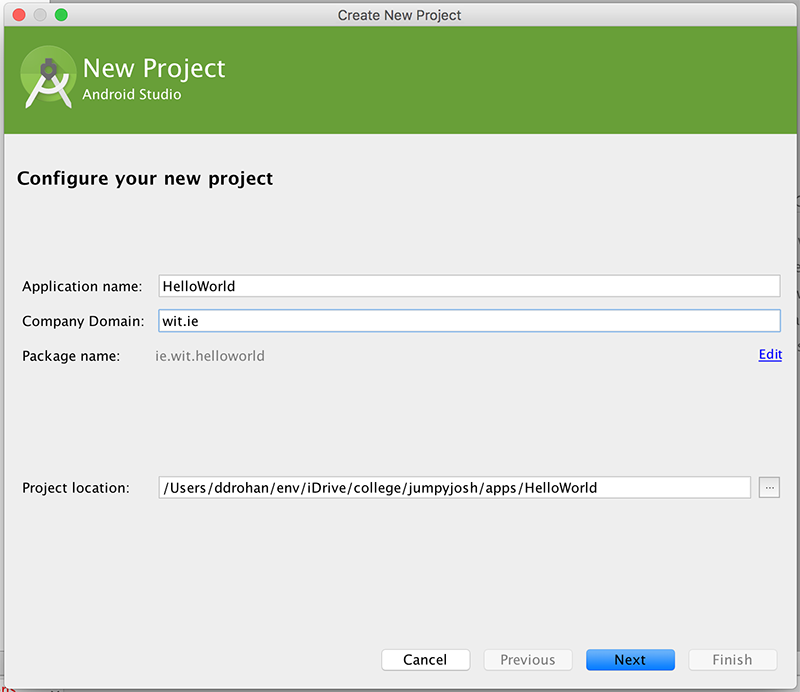
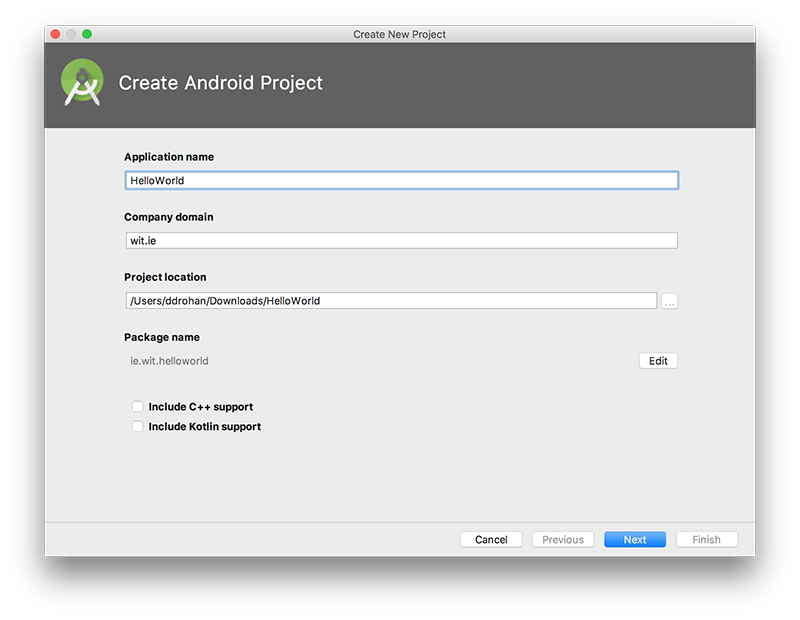
MB Lab01 Updates with Android Studio 3.0

diff --git a/topic01-overview-and-tools/book-a-lab-01/index.html b/topic01-overview-and-tools/book-a-lab-01/index.html
@@ -242,29 +242,32 @@ body
 <p><img src="img/lab01.png" alt="Figure 1: Completed App running in Emulator"></p>
 <p>If you&#39;ve deleted your HelloWorld Project, launch Android Studio (if it&#39;s not already open) and create a new Android Project called <b>HelloWorld</b> similar to what you did in Step 02.</p>
 <p>If you haven&#39;t deleted the project, you can just continue on.</p>
-<p>Name your package &#39;ie.wit&#39; (like you did before). Choose an Empty Activity again and rename as before. It&#39;s recommended you select <b>Android 5.0</b> as the launch target platform (but any target will suffice for this particular lab). It&#39;s also probably a good idea to run the App at this stage, so you can set up your Virtual Device (if you haven&#39;t done so already).</p>
+<p>Name your package &#39;ie.wit&#39; (like you did before). Choose a <b>Basic</b> Activity and rename as before. It&#39;s recommended you select <b>Android 6.0</b> as the launch target platform (but any target will suffice for this particular lab). It&#39;s also probably a good idea to run the App at this stage, so you can set up your Virtual Device (if you haven&#39;t done so already).</p>
 <p>Edit your &quot;strings.xml&quot; file (in your res folder) and add the following &quot;resources&quot; - be careful if you have created an app which contains a &#39;menu&#39; folder, this also includes associated resources, so don&#39;t overwrite those resources, just add our ones at the end.</p>
 <pre><code>    &lt;string name=&quot;window_text&quot;&gt;Press the button below to receive a friendly greeting from Android.&lt;/string&gt;
     &lt;string name=&quot;button_label&quot;&gt;Show Greeting&lt;/string&gt;
     &lt;string name=&quot;greeting_text&quot;&gt;Hello from Android!&lt;/string&gt;</code></pre>
-<p>Your completed strings.xml (without menus) should look like this</p>
+<p>Your completed strings.xml (with menu resurces) should look like this</p>
 <pre><code>&lt;resources&gt;
     &lt;string name=&quot;app_name&quot;&gt;HelloWorld&lt;/string&gt;
+    &lt;string name=&quot;action_settings&quot;&gt;Settings&lt;/string&gt;
+
     &lt;string name=&quot;window_text&quot;&gt;Press the button below to receive a friendly greeting from Android.&lt;/string&gt;
     &lt;string name=&quot;button_label&quot;&gt;Show Greeting&lt;/string&gt;
-    &lt;string name=&quot;greeting_text&quot;&gt;Hello from Android!&lt;/string&gt;
-&lt;/resources&gt;</code></pre>
+    &lt;string name=&quot;greeting_text&quot;&gt;Hello from Android!&lt;/string&gt;</code></pre>
 <p>If you choose &quot;open editor&quot; you can see the graphical representation of the String resources you have set up (and edit them here if you need to).</p>
 <p><img src="img/lab02.png" alt="Figure 1: String resources in Translations Editor"></p>
-<p>Now, edit your <b>&quot;activity_hello_world.xml&quot;</b> in your <u><i><strong>layout</strong></i></u> folder and replace your <b>TextView</b> with the following - make sure your in &#39;Text&#39; view and not &#39;Design&#39; view window (so you can see the xml).</p>
+<p>Now, edit your &quot;content_hello_world.xml&quot; <b><u>NOT</u></b> your &quot;activity_hello_world.xml&quot; in your <u><i><strong>layout</strong></i></u> folder and replace your <b>TextView</b> with the following - make sure your in &#39;Text&#39; view and not &#39;Design&#39; view window (so you can see the xml).</p>
 <pre><code>&lt;TextView
         android:id=&quot;@+id/textView1&quot;
-        android:gravity=&quot;center&quot;
         android:layout_width=&quot;wrap_content&quot;
         android:layout_height=&quot;wrap_content&quot;
-        android:layout_marginTop=&quot;20dp&quot;
+        android:layout_marginTop=&quot;80dp&quot;
+        android:gravity=&quot;center&quot;
         android:text=&quot;@string/window_text&quot;
-        android:textAppearance=&quot;?android:attr/textAppearanceMedium&quot; /&gt;
+        android:textAppearance=&quot;?android:attr/textAppearanceMedium&quot;
+        app:layout_constraintStart_toStartOf=&quot;parent&quot;
+        app:layout_constraintTop_toTopOf=&quot;parent&quot; /&gt;
 
     &lt;Button
         android:id=&quot;@+id/greetingButton&quot;
@@ -272,25 +275,35 @@ body
         android:layout_height=&quot;wrap_content&quot;
         android:layout_alignParentBottom=&quot;true&quot;
         android:layout_centerHorizontal=&quot;true&quot;
-        android:layout_marginBottom=&quot;59dp&quot;
+        android:layout_marginBottom=&quot;170dp&quot;
         android:onClick=&quot;showGreeting&quot;
-        android:text=&quot;@string/button_label&quot; /&gt;</code></pre>
+        android:text=&quot;@string/button_label&quot;
+        app:layout_constraintBottom_toBottomOf=&quot;parent&quot;
+        app:layout_constraintEnd_toEndOf=&quot;parent&quot;
+        app:layout_constraintStart_toStartOf=&quot;parent&quot; /&gt;</code></pre>
 <p>This will give you the following layout (once you select &#39;Design View&#39; again):</p>
 <p><img src="img/lab03.png" alt="Figure 3: Updated Activity Layout with TextView and Button widgets"></p>
+<p>Note how the widgets are &#39;anchored&#39; to the layout border - this ensures that our button and textview display correctly on the layout at runtime.</p>
+<p><img src="img/anchored.png" alt="Figure 4: Anchored TextView and Button widgets"></p>
 <p>Once again, it&#39;s worth running the app at this point to confirm everything is displayed the way we want it. If you click the button, your app will probably crash - we don&#39;t have our <b>showGreeting()</b> method implemented yet.</p>
 <p>So, the last thing we need to do is add in our event handling code so that a short message is displayed when the user presses the &#39;Show Greeting&#39; button.</p>
-<p>Firstly, open up the <strong>HelloWorldActivity.java</strong> source file and add the following method</p>
+<p>Firstly, open up the <strong>HelloWorldActivity.java</strong> source file and add the following method <b>BEFORE</b> the last closing brace</p>
 <pre><code>public void showGreeting(View v) {
         String greetingText = getString(R.string.greeting_text);
         Toast.makeText(this, greetingText, Toast.LENGTH_LONG).show();
     }</code></pre>
 <p>You&#39;ll get a few compiler errors due to missing imports, so try and fix those.</p>
-<p>Note that we have no need for some kind of Listener interface (ala swing development) - our event handling is taken care of via the <strong><em>onClick</em></strong> attribute in our xml layout, here&#39;s what your completed <strong>HelloWorldActivity</strong> class should look like.</p>
+<p>Note that we have no need for some kind of Listener interface (ala swing development) - our event handling is taken care of via the <strong><em>onClick</em></strong> attribute in our xml layout, here&#39;s what your completed <strong>HelloWorldActivity</strong> class should look like, including Floating Action Button and Menu support.</p>
 <pre><code>package ie.wit.helloworld;
 
 import android.os.Bundle;
+import android.support.design.widget.FloatingActionButton;
+import android.support.design.widget.Snackbar;
 import android.support.v7.app.AppCompatActivity;
+import android.support.v7.widget.Toolbar;
 import android.view.View;
+import android.view.Menu;
+import android.view.MenuItem;
 import android.widget.Toast;
 
 public class HelloWorldActivity extends AppCompatActivity {
@@ -299,15 +312,49 @@ public class HelloWorldActivity extends AppCompatActivity {
     protected void onCreate(Bundle savedInstanceState) {
         super.onCreate(savedInstanceState);
         setContentView(R.layout.activity_hello_world);
+        Toolbar toolbar = (Toolbar) findViewById(R.id.toolbar);
+        setSupportActionBar(toolbar);
+
+        FloatingActionButton fab = (FloatingActionButton) findViewById(R.id.fab);
+        fab.setOnClickListener(new View.OnClickListener() {
+            @Override
+            public void onClick(View view) {
+                Snackbar.make(view, &quot;Replace with your own action&quot;, Snackbar.LENGTH_LONG)
+                        .setAction(&quot;Action&quot;, null).show();
+            }
+        });
+    }
+
+    @Override
+    public boolean onCreateOptionsMenu(Menu menu) {
+        // Inflate the menu; this adds items to the action bar if it is present.
+        getMenuInflater().inflate(R.menu.menu_hello_world, menu);
+        return true;
+    }
+
+    @Override
+    public boolean onOptionsItemSelected(MenuItem item) {
+        // Handle action bar item clicks here. The action bar will
+        // automatically handle clicks on the Home/Up button, so long
+        // as you specify a parent activity in AndroidManifest.xml.
+        int id = item.getItemId();
+
+        //noinspection SimplifiableIfStatement
+        if (id == R.id.action_settings) {
+            return true;
+        }
+
+        return super.onOptionsItemSelected(item);
     }
 
     public void showGreeting(View v) {
         String greetingText = getString(R.string.greeting_text);
         Toast.makeText(this, greetingText, Toast.LENGTH_LONG).show();
     }
+
 }</code></pre>
 <p>So when you run your app again you should see something like this when you click the &#39;Show Greeting&#39; button.</p>
-<p><img src="img/lab04.png" alt="Figure 4: Completed App running in Emulator with Button clicked"></p>
+<p><img src="img/lab04.png" alt="Figure 5: Completed App running in Emulator with Button clicked"></p>
 <p>We will investigate this code more closely in the lectures.</p>
 
       </div>
